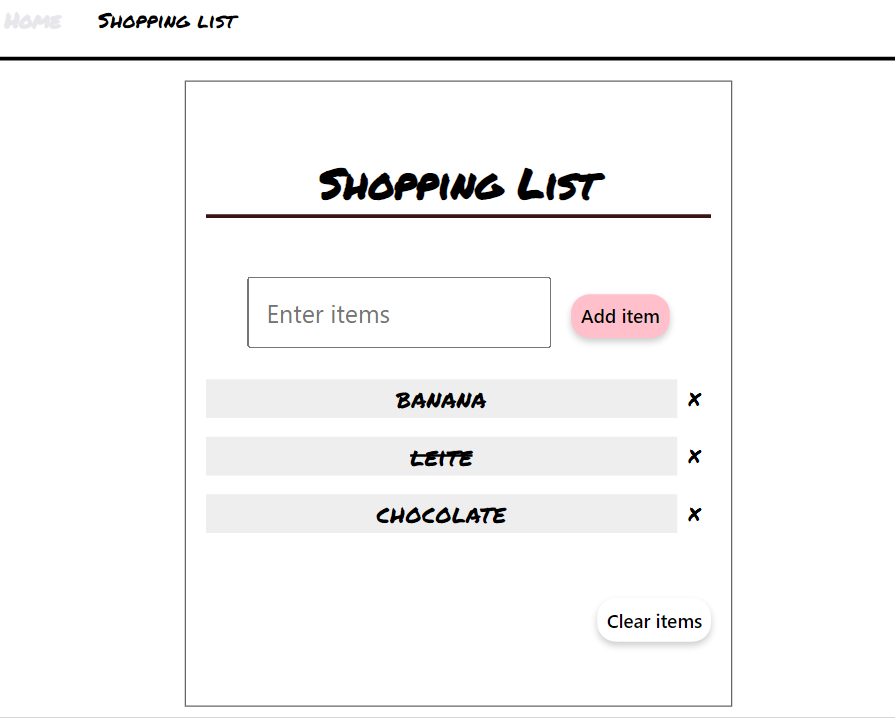
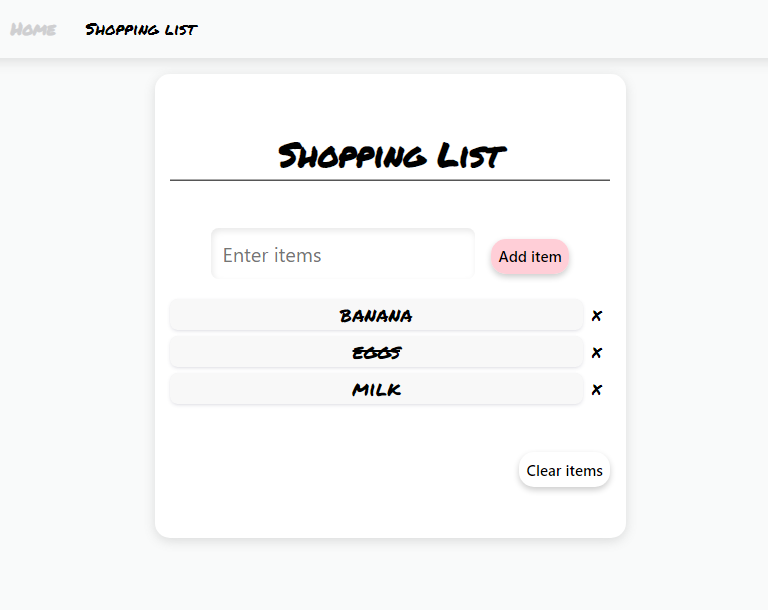
improving description and updating image of the projects

diff --git a/src/constants/projects.js b/src/constants/projects.js
@@ -7,14 +7,14 @@ const PROJECTS = [
     name: "Face Detector",
     link: "https://facedetector.vercel.app/",
     image: faceDetector,
-    description: "Final project for my Web Development course. A web application that consumes Clarifai API, allowing users to detect faces in their pictures. Also possible to subscribe and keep track of the number of pictures sumbited successfully.",
+    description: "A web application that consumes Clarifai API, allowing users to detect faces in their pictures. Thanks to the database connection and authentication solution, it is also possible to sign up with your e-mail and keep track of the number of pictures sumbitted successfully.",
     techs: ["JavaScript","Nextjs", "CSS", "Nodejs", "Express", "PostgreSQL", "NextAuth.js", "Knex", ]
     },
     {
     name: "Shopping List",
     link: "https://shoppinglist-application-v2.herokuapp.com/",
     image: shoppingList,
-    description: "Simple web application for users to enter their shopping items. Users can also remove and cross out each item, as well as clear the entire list.",
+    description: "The classic shopping list, where users can enter, remove and cross out items, as well as clear the entire list. This app has responsive layout and a SQLite database connected, preventing the loss of information when refreshing the page.",
     techs: ["JavaScript","HTML", "CSS", "EJS", "Nodejs", "Express", "SQLite", ]
     },
     {
